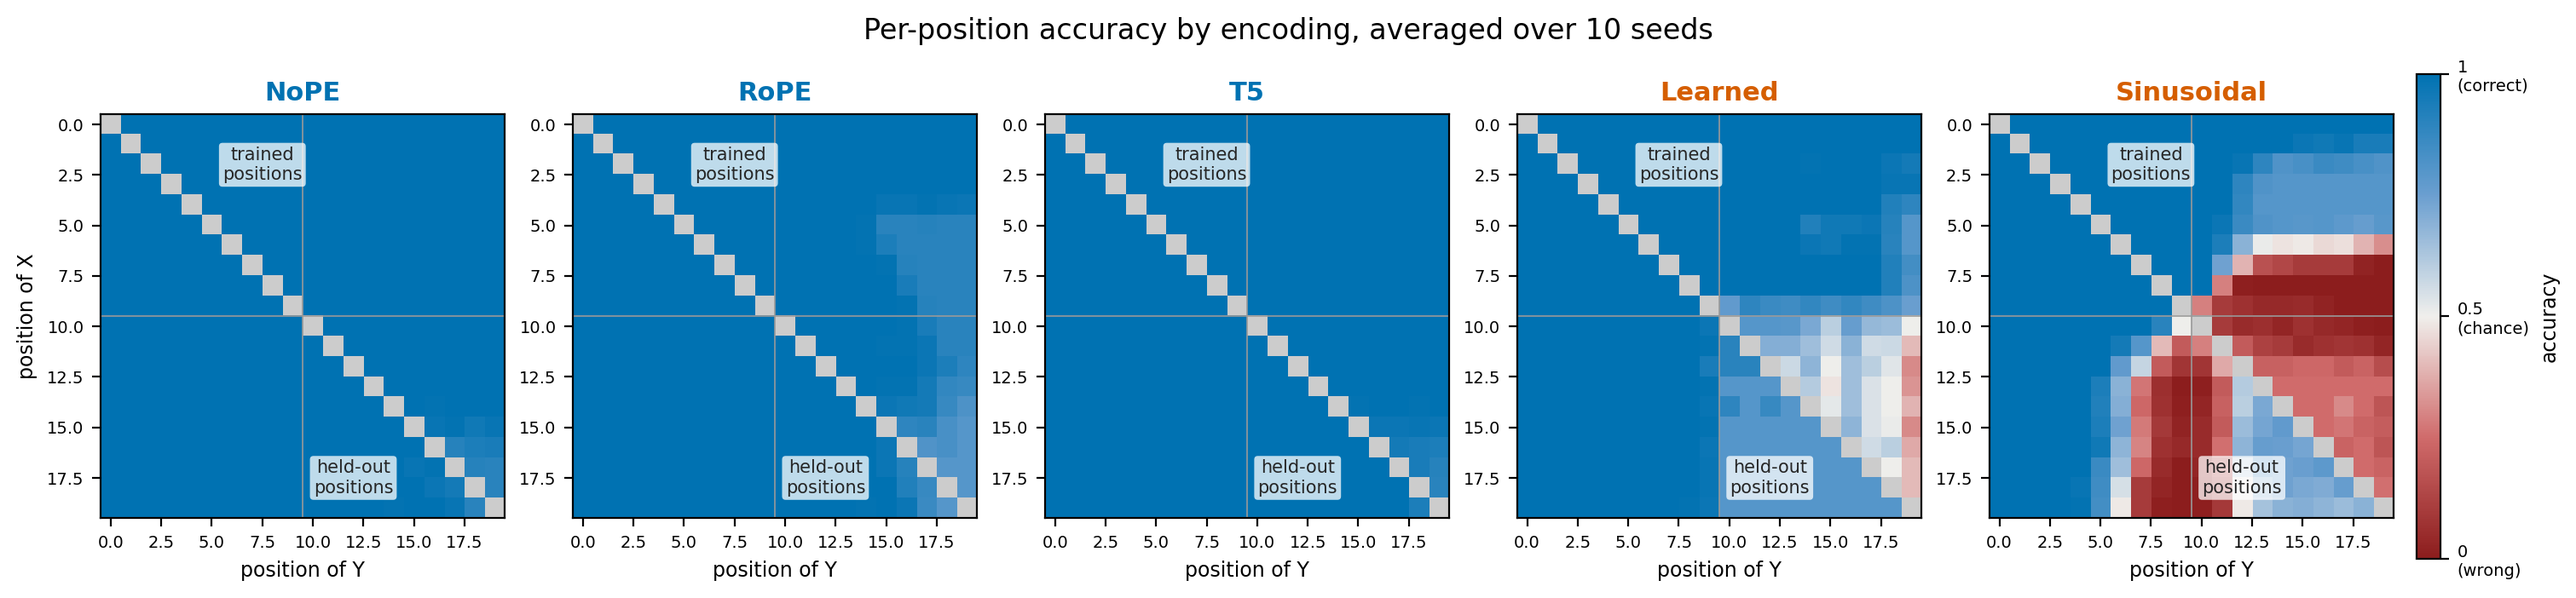
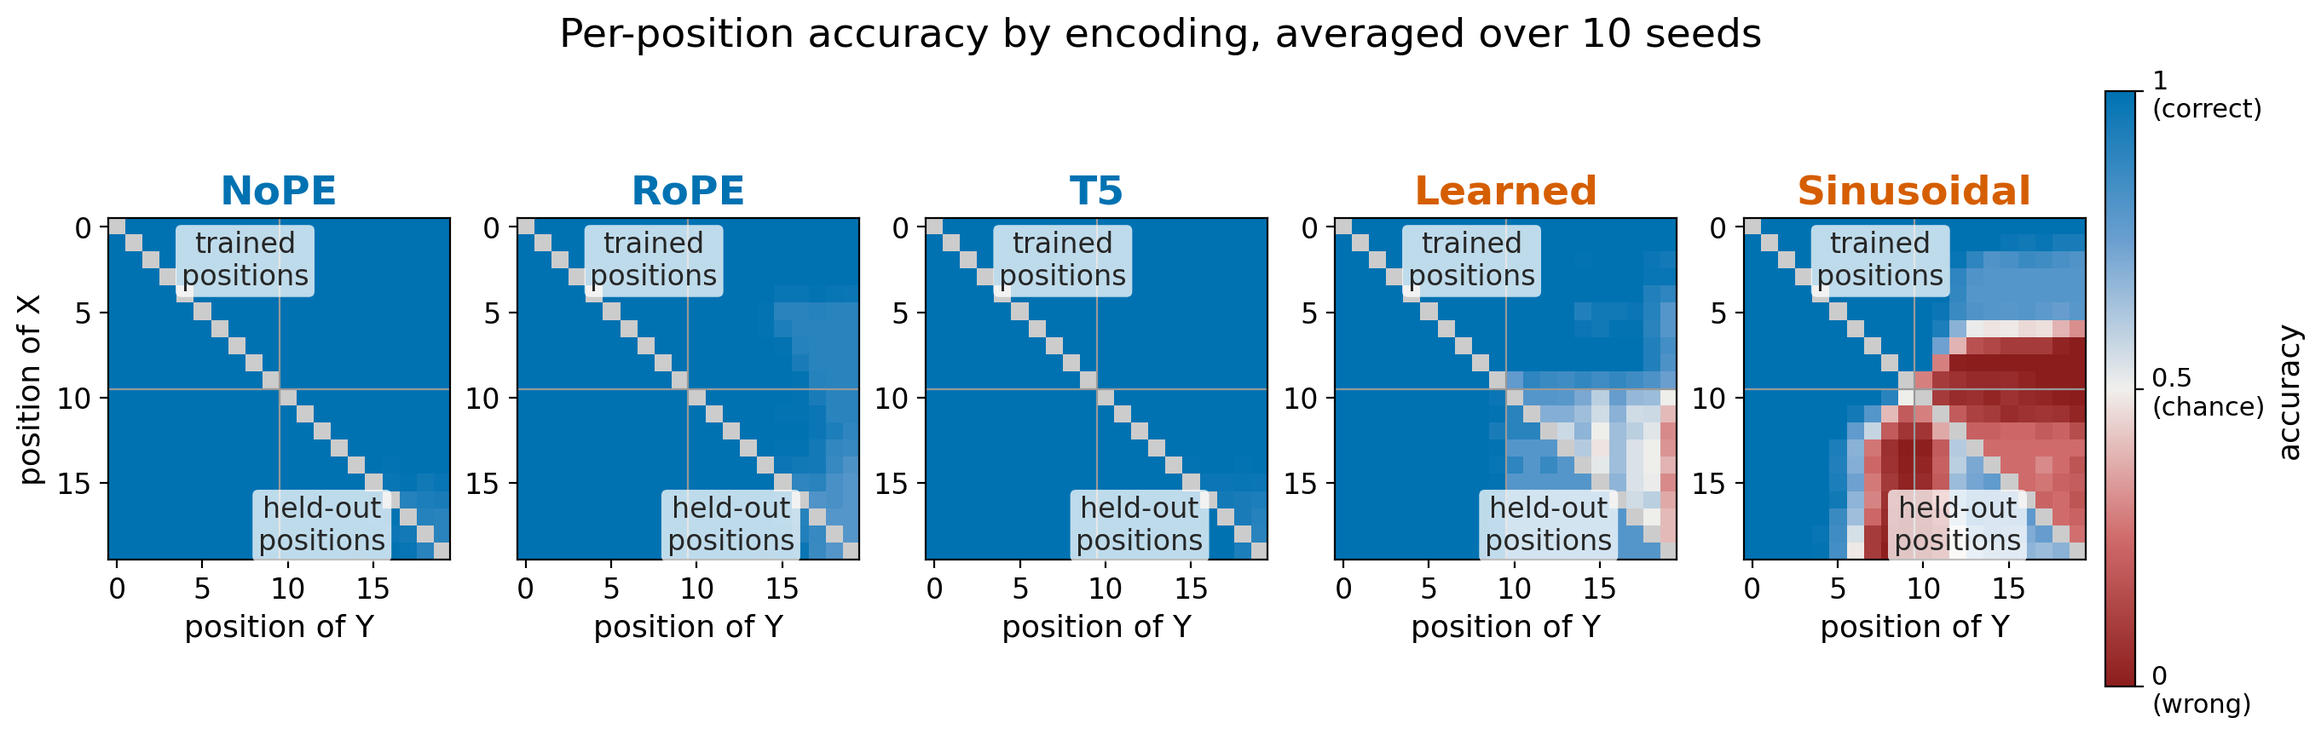
style: resize multiseed plot figure and increase font sizes for better readability

diff --git a/generalization-order/plot_multiseed.py b/generalization-order/plot_multiseed.py
@@ -151,33 +151,37 @@ def heatmap():
         'blu_red', ['#8c1d1d', '#d06b6b', '#f0efec', '#6b9fd0', '#0072B2'])
     box = dict(boxstyle='round,pad=0.2', fc='white', ec='none', alpha=0.75)
 
-    fig, axes = plt.subplots(1, len(ORDER), figsize=(3.0 * len(ORDER), 3.4),
+    # A 5-panel row gets scaled down to the single-column width, so fonts must be
+    # large in the source to survive. Taller panels + big fonts + sparse ticks.
+    fig, axes = plt.subplots(1, len(ORDER), figsize=(2.7 * len(ORDER), 4.2),
                              constrained_layout=True)
+    ticks = [0, 5, 10, 15]
     im = None
     for ax, pe in zip(axes, ORDER):
         M = np.ma.masked_invalid(corr[pe])
         im = ax.imshow(M, cmap=div, vmin=0, vmax=1, origin='upper')
         ax.set_facecolor('0.80')                     # excluded diagonal shows as grey
-        ax.set_title(LABEL[pe], fontsize=11, color=FAM_COLOR[FAMILY[pe]], fontweight='bold')
-        ax.set_xlabel('position of Y', fontsize=8.5)
+        ax.set_title(LABEL[pe], fontsize=17, color=FAM_COLOR[FAMILY[pe]], fontweight='bold')
+        ax.set_xlabel('position of Y', fontsize=13)
         if pe == ORDER[0]:
-            ax.set_ylabel('position of X', fontsize=8.5)
-        ax.tick_params(labelsize=7)
+            ax.set_ylabel('position of X', fontsize=13)
+        ax.set_xticks(ticks); ax.set_yticks(ticks)
+        ax.tick_params(labelsize=12)
         # region separators: recessive hairlines, one step off the surface
-        ax.axhline(9.5, color='0.6', lw=0.6); ax.axvline(9.5, color='0.6', lw=0.6)
+        ax.axhline(9.5, color='0.6', lw=0.8); ax.axvline(9.5, color='0.6', lw=0.8)
         # region labels centred in each block, off the diagonal, on a white pad so
         # they stay legible over any cell colour
         ax.text(7.5, 2.0, 'trained\npositions', ha='center', va='center',
-                fontsize=7.5, color='0.15', bbox=box)
+                fontsize=12, color='0.15', bbox=box)
         ax.text(12.0, 17.5, 'held-out\npositions', ha='center', va='center',
-                fontsize=7.5, color='0.15', bbox=box)
-    cbar = fig.colorbar(im, ax=axes, fraction=0.015, pad=0.01)
-    cbar.set_label('accuracy', fontsize=8.5)
+                fontsize=12, color='0.15', bbox=box)
+    cbar = fig.colorbar(im, ax=axes, fraction=0.02, pad=0.01)
+    cbar.set_label('accuracy', fontsize=13)
     cbar.set_ticks([0, 0.5, 1.0])
     cbar.set_ticklabels(['0\n(wrong)', '0.5\n(chance)', '1\n(correct)'])
-    cbar.ax.tick_params(labelsize=7)
+    cbar.ax.tick_params(labelsize=11)
     fig.suptitle('Per-position accuracy by encoding, averaged over 10 seeds',
-                 fontsize=12)
+                 fontsize=17)
     p = os.path.join(OUT, 'per_position_multiseed.png')
     fig.savefig(p, dpi=200, bbox_inches='tight')
     plt.close(fig)
